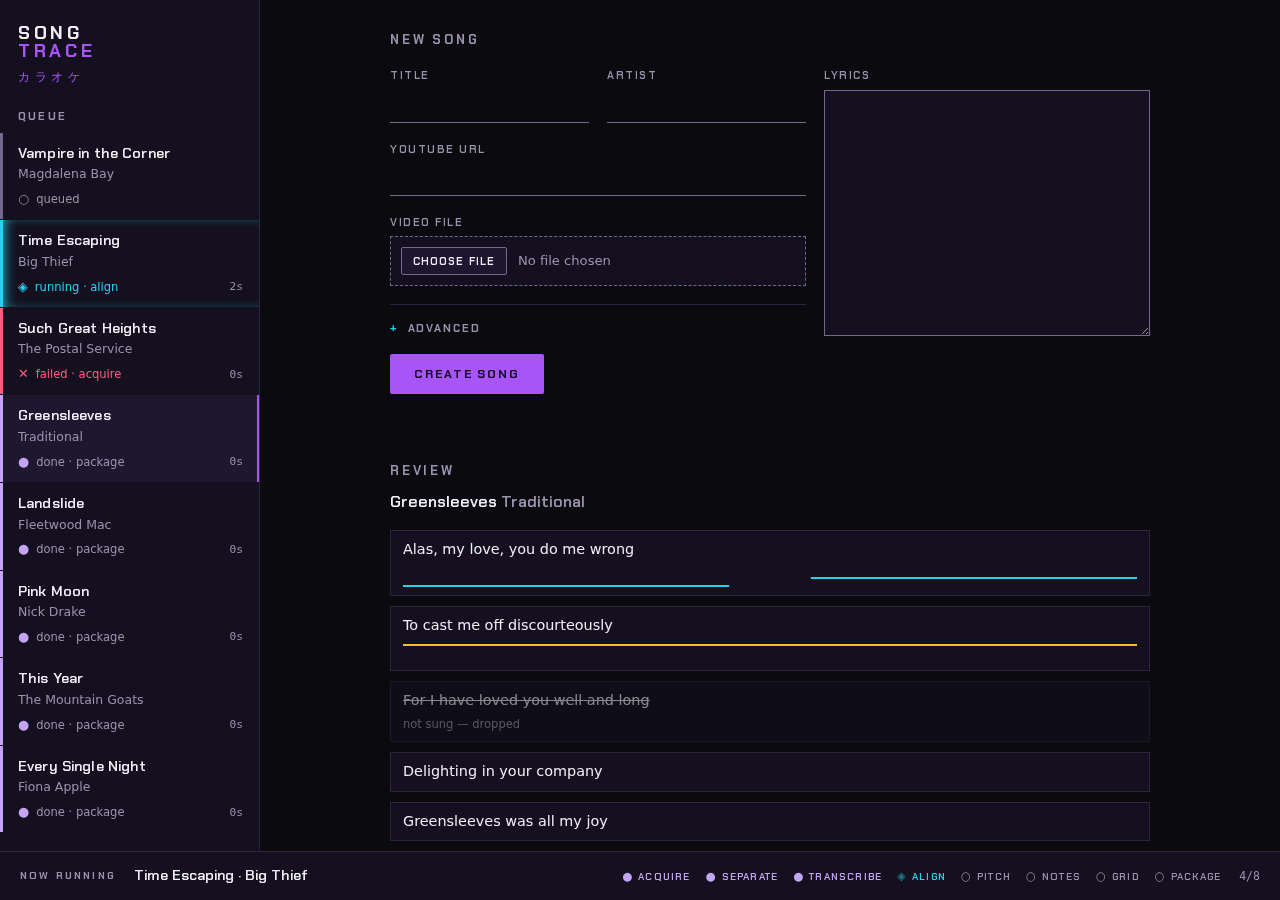
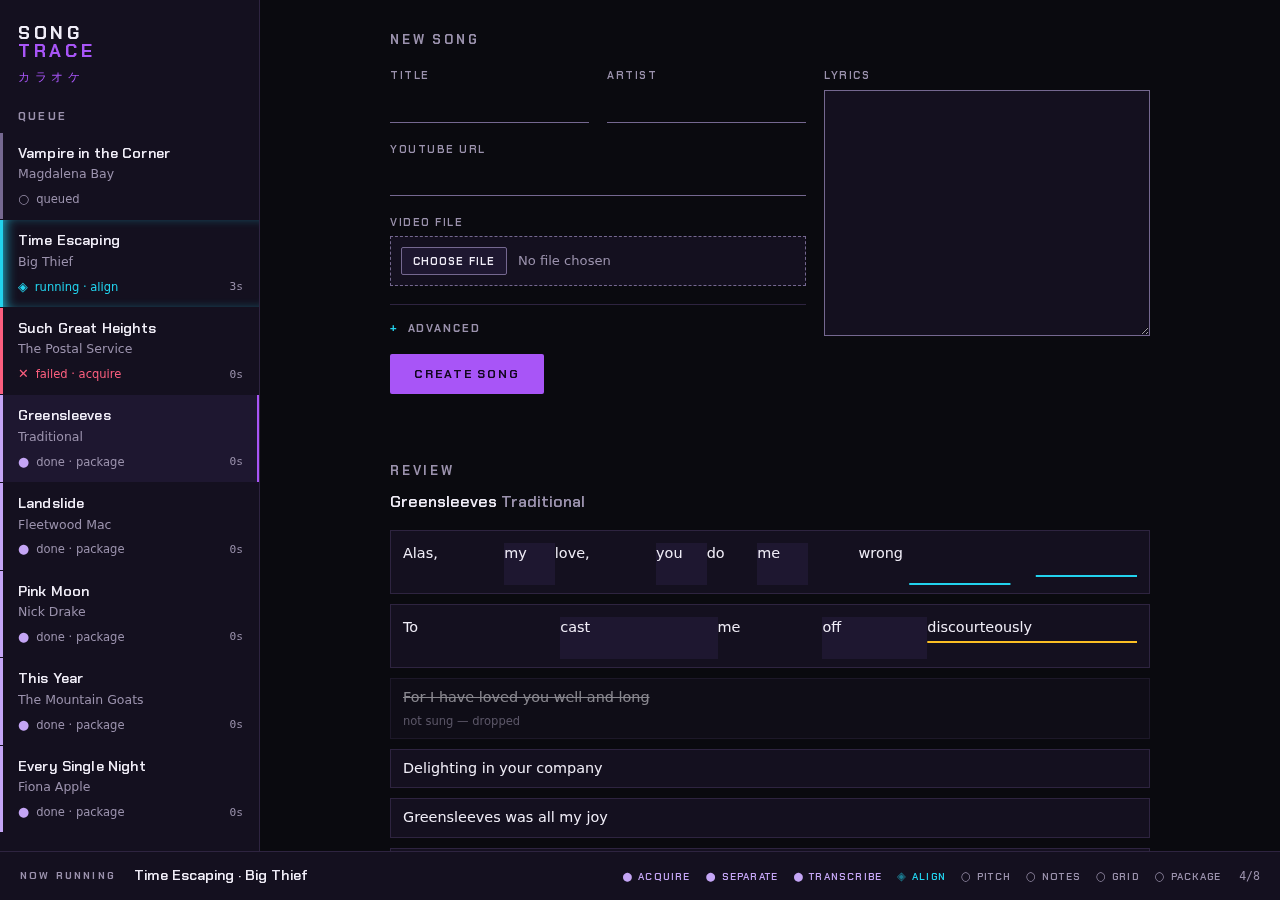
review: lay out lyrics words along a shared time axis with notes aligned beneath
The review panel used to show a full line of packed text with one
undifferentiated strip of notes below it, so it was impossible to tell
which notes belonged to which word. The forced-alignment stage already
produces per-word timestamps in alignment.json, but they were never
surfaced past the pipeline.

/api/jobs/{id}/review now includes each line's per-word timing, and the
frontend spaces words out by their real sung timing (karaoke-style)
instead of normal text flow, with the note strip sharing that same time
axis so each note lands directly under its word. Alternating lane
backgrounds make the word/note pairing unambiguous. Dropped lines and
jobs without alignment data keep the old plain-text rendering.

Changed region(s): [[0.3125, 0.6222, 0.9062, 0.9333], [0.3125, 0.5911, 0.5, 0.6222]]

diff --git a/src/songtrace/static/index.html b/src/songtrace/static/index.html
@@ -325,7 +325,12 @@ button { cursor: pointer; }
 .review-line-dropped { opacity: 0.55; }
 .review-line-dropped .review-line-text { text-decoration: line-through; }
 .review-line-note { display: block; margin-top: 4px; font-size: 0.72rem; color: var(--text-muted); }
-.review-roll { display: block; width: 100%; height: 20px; margin-top: 6px; }
+.review-line-timeline { position: relative; margin-top: 4px; }
+.review-lane { position: absolute; top: 0; bottom: 0; }
+.review-lane-alt { background: var(--panel-raised); }
+.review-word-row { position: relative; height: 18px; }
+.review-word { position: absolute; top: 0; white-space: nowrap; font-size: 0.9rem; }
+.review-roll { display: block; width: 100%; height: 20px; margin-top: 4px; }
 .review-note { fill: var(--aqua); }
 .review-note-low { fill: var(--warn); }
 .review-missing {
@@ -804,13 +809,11 @@ function missingSpanNode(span) {
   return p;
 }
 
-function pianoRoll(notes, minPitch, span) {
+function pianoRoll(notes, minPitch, span, t0, t1) {
   const svg = document.createElementNS(SVG_NS, "svg");
   svg.setAttribute("class", "review-roll");
   svg.setAttribute("viewBox", "0 0 100 20");
   svg.setAttribute("preserveAspectRatio", "none");
-  const t0 = notes[0].start;
-  const t1 = Math.max(...notes.map(n => n.end));
   const dur = Math.max(t1 - t0, 0.001);
   for (const n of notes) {
     const rect = document.createElementNS(SVG_NS, "rect");
@@ -827,21 +830,62 @@ function pianoRoll(notes, minPitch, span) {
   return svg;
 }
 
+// Lays words out along a shared time axis (like a karaoke lyric line) so
+// each word's notes render directly beneath it instead of as one flat strip.
+function lineTimeline(words, notes, minPitch, span) {
+  const t0 = words[0].start;
+  const t1 = words[words.length - 1].end;
+  const dur = Math.max(t1 - t0, 0.001);
+  const box = document.createElement("div");
+  box.className = "review-line-timeline";
+  words.forEach((w, i) => {
+    const lane = document.createElement("div");
+    lane.className = "review-lane" + (i % 2 ? " review-lane-alt" : "");
+    lane.style.left = `${((w.start - t0) / dur) * 100}%`;
+    lane.style.width = `${Math.max(((w.end - w.start) / dur) * 100, 0.5)}%`;
+    box.append(lane);
+  });
+  const wordsRow = document.createElement("div");
+  wordsRow.className = "review-word-row";
+  for (const w of words) {
+    const label = document.createElement("span");
+    label.className = "review-word";
+    label.style.left = `${((w.start - t0) / dur) * 100}%`;
+    label.textContent = w.text;
+    wordsRow.append(label);
+  }
+  box.append(wordsRow);
+  if (notes.length) box.append(pianoRoll(notes, minPitch, span, t0, t1));
+  return box;
+}
+
 function lineNode(line, minPitch, span) {
   const row = document.createElement("div");
   row.className = "review-line" + (line.dropped ? " review-line-dropped" : "");
-  const text = document.createElement("span");
-  text.className = "review-line-text";
-  text.textContent = line.text;
-  row.append(text);
   if (line.dropped) {
+    const text = document.createElement("span");
+    text.className = "review-line-text";
+    text.textContent = line.text;
+    row.append(text);
     const note = document.createElement("span");
     note.className = "review-line-note";
     note.textContent = "not sung — dropped";
     row.append(note);
     return row;
   }
-  if (line.notes.length) row.append(pianoRoll(line.notes, minPitch, span));
+  if (line.words.length) {
+    row.append(lineTimeline(line.words, line.notes, minPitch, span));
+    return row;
+  }
+  const text = document.createElement("span");
+  text.className = "review-line-text";
+  text.textContent = line.text;
+  row.append(text);
+  if (line.notes.length) {
+    const t0 = line.notes[0].start;
+    const t1 = Math.max(...line.notes.map(n => n.end));
+    row.append(pianoRoll(line.notes, minPitch, span, t0, t1));
+  }
   return row;
 }
 

diff --git a/tests/test_web.py b/tests/test_web.py
@@ -433,6 +433,15 @@ def test_index_lyrics_review_uses_endash_for_time_ranges():
     assert "–" in body
 
 
+def test_index_review_lays_out_words_in_time():
+    """Words must be positioned by their sung timing (percentage-based), not
+    packed as plain flow text, so notes can line up under their own word."""
+    html = _index_html()
+    body = _fn_body(html, "lineTimeline")
+    assert "review-word" in body
+    assert "style.left" in body
+
+
 def test_lyrics_review_cache_clears_on_job_status_change():
     """Regression: switching between done/failed/running jobs must clear the
     cache so a previously-viewed done job re-fetches when re-selected."""
@@ -1021,7 +1030,8 @@ def test_a_plain_job_never_removes_anything(tmp_path):
     assert stray.exists()
 
 
-def review_runner_factory(notes, dropped_lines=None, missing_spans=None, warnings=None):
+def review_runner_factory(notes, dropped_lines=None, missing_spans=None, warnings=None,
+                          words=None):
     def runner(inp, cfg, log=print, force_from=None, stages=None):
         work = cfg.work_dir / song_slug(inp)
         work.mkdir(parents=True, exist_ok=True)
@@ -1031,6 +1041,8 @@ def review_runner_factory(notes, dropped_lines=None, missing_spans=None, warning
             (work / "align_meta.json").write_text(json.dumps({
                 "dropped_lines": dropped_lines or [],
                 "missing_spans": missing_spans or []}))
+        if words is not None:
+            (work / "alignment.json").write_text(json.dumps(words))
         out = cfg.output_dir / song_slug(inp)
         out.mkdir(parents=True, exist_ok=True)
         return PipelineResult(output_dir=out, warnings=warnings or [])
@@ -1054,12 +1066,39 @@ def test_review_endpoint_groups_notes_by_line(tmp_path):
     body = client.get(f"/api/jobs/{job_id}/review").json()
     assert body["lines"] == [
         {"index": 0, "text": "hi", "dropped": False,
-         "notes": [{"start": 1.0, "end": 1.4, "pitch": 0, "low_confidence": False}]},
+         "notes": [{"start": 1.0, "end": 1.4, "pitch": 0, "low_confidence": False}],
+         "words": []},
         {"index": 1, "text": "there", "dropped": False,
-         "notes": [{"start": 5.0, "end": 5.3, "pitch": 2, "low_confidence": True}]},
-        {"index": 2, "text": "gone", "dropped": True, "notes": []},
+         "notes": [{"start": 5.0, "end": 5.3, "pitch": 2, "low_confidence": True}],
+         "words": []},
+        {"index": 2, "text": "gone", "dropped": True, "notes": [], "words": []},
     ]
     assert body["missing_spans"] == [{"start": 8.0, "end": 9.5}]
+
+
+def test_review_endpoint_includes_per_word_timing(tmp_path):
+    notes = [
+        {"start": 1.0, "duration": 0.4, "pitch": 0, "text": "hi",
+         "low_confidence": False, "line_index": 0},
+        {"start": 5.0, "duration": 0.3, "pitch": 2, "text": "there",
+         "low_confidence": True, "line_index": 1},
+    ]
+    words = [
+        {"word": "hi", "start": 1.0, "end": 1.4, "score": 0.9, "line_index": 0},
+        {"word": "there", "start": 5.0, "end": 5.3, "score": 0.9, "line_index": 1},
+    ]
+    client, _ = make_client(tmp_path, review_runner_factory(
+        notes, dropped_lines=[2], missing_spans=[[8.0, 9.5]], words=words))
+    resp = client.post("/api/jobs", data={
+        "title": "T", "artist": "A", "lyrics": "hi\nthere\ngone",
+        "youtube_url": "http://y"})
+    job_id = resp.json()["id"]
+    wait_status(client, job_id, "done")
+    body = client.get(f"/api/jobs/{job_id}/review").json()
+    assert body["lines"][0]["words"] == [{"text": "hi", "start": 1.0, "end": 1.4}]
+    assert body["lines"][1]["words"] == [{"text": "there", "start": 5.0, "end": 5.3}]
+    assert body["lines"][2]["dropped"] is True
+    assert body["lines"][2]["words"] == []
 
 
 def test_review_of_a_failed_job_is_404(tmp_path):

diff --git a/scripts/screenshot_webui.py b/scripts/screenshot_webui.py
@@ -70,12 +70,24 @@ SONGS = [
               {"index": 0, "text": "Alas, my love, you do me wrong",
                "dropped": False,
                "notes": [{"start": 12.0, "end": 12.4, "pitch": 0, "low_confidence": False},
-                         {"start": 12.5, "end": 12.9, "pitch": 2, "low_confidence": False}]},
+                         {"start": 12.5, "end": 12.9, "pitch": 2, "low_confidence": False}],
+               "words": [{"text": "Alas,", "start": 10.0, "end": 10.4},
+                         {"text": "my", "start": 10.4, "end": 10.6},
+                         {"text": "love,", "start": 10.6, "end": 11.0},
+                         {"text": "you", "start": 11.0, "end": 11.2},
+                         {"text": "do", "start": 11.2, "end": 11.4},
+                         {"text": "me", "start": 11.4, "end": 11.6},
+                         {"text": "wrong", "start": 11.8, "end": 12.9}]},
               {"index": 1, "text": "To cast me off discourteously",
                "dropped": False,
-               "notes": [{"start": 45.0, "end": 45.4, "pitch": 4, "low_confidence": True}]},
+               "notes": [{"start": 45.0, "end": 45.4, "pitch": 4, "low_confidence": True}],
+               "words": [{"text": "To", "start": 44.0, "end": 44.3},
+                         {"text": "cast", "start": 44.3, "end": 44.6},
+                         {"text": "me", "start": 44.6, "end": 44.8},
+                         {"text": "off", "start": 44.8, "end": 45.0},
+                         {"text": "discourteously", "start": 45.0, "end": 45.4}]},
               {"index": 2, "text": "For I have loved you well and long",
-               "dropped": True, "notes": []},
+               "dropped": True, "notes": [], "words": []},
           ],
           "missing_spans": [{"start": 130.0, "end": 138.0}],
       }}),
@@ -113,6 +125,11 @@ def make_runner():
                     "missing_spans": [[s["start"], s["end"]]
                                       for s in extra["review"]["missing_spans"]],
                 }))
+                (work / "alignment.json").write_text(json.dumps([
+                    {"word": w["text"], "start": w["start"], "end": w["end"],
+                     "score": 0.9, "line_index": line["index"]}
+                    for line in extra["review"]["lines"] for w in line.get("words", [])
+                ]))
             out = cfg.output_dir / f"{inp.artist} - {inp.title}"
             out.mkdir(parents=True, exist_ok=True)
             return PipelineResult(output_dir=out, warnings=extra["warnings"])

diff --git a/src/songtrace/web.py b/src/songtrace/web.py
@@ -320,6 +320,12 @@ def create_app(cfg: Config, runner=run_pipeline) -> FastAPI:
         dropped = set(meta.get("dropped_lines", []))
         missing_spans = [{"start": s, "end": e}
                          for s, e in meta.get("missing_spans", [])]
+        align_file = work / "alignment.json"
+        align_rows = json.loads(align_file.read_text()) if align_file.exists() else []
+        words_by_line: dict[int, list] = {}
+        for r in align_rows:
+            words_by_line.setdefault(r["line_index"], []).append(
+                {"text": r["word"], "start": r["start"], "end": r["end"]})
         ref = normalize_lyrics(job.inp.lyrics_text)
         by_line: dict[int, list] = {}
         for n in notes_data["notes"]:
@@ -327,7 +333,7 @@ def create_app(cfg: Config, runner=run_pipeline) -> FastAPI:
                 "start": n["start"], "end": n["start"] + n["duration"],
                 "pitch": n["pitch"], "low_confidence": n["low_confidence"]})
         lines = [{"index": i, "text": " ".join(words), "dropped": i in dropped,
-                  "notes": by_line.get(i, [])}
+                  "notes": by_line.get(i, []), "words": words_by_line.get(i, [])}
                  for i, words in enumerate(ref.lines)]
         return {"lines": lines, "missing_spans": missing_spans}
 
